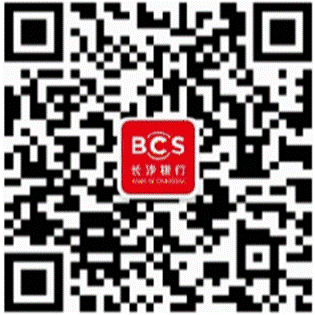
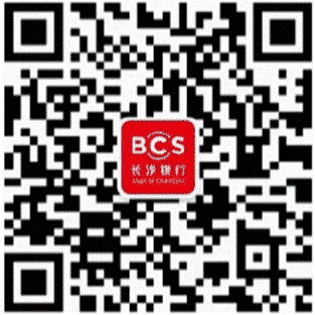
1.1.0 仓库整理：合并重复实现、删除死文件、图标与图片减重（目录 1316KB → 262KB）
本次只整理扩展目录，README.md / LICENSE / .github/ 与两个 .crx 一行未动。

去重（合并到新文件 common.js）：
- showNotification 原来在 1.js（CSS 类名 + 6000ms）和 3.js（内联样式 + 3000ms）各写一份，且行为不一致 -> 合并为一份，两页共用，统一 6000ms 与类名样式；
- escapeHtml 在 SecurityUtils(1.js) 与 EditSecurity(3.js) 里逐字相同 -> 合并；
- 1.js 里无调用点的 showSxnxModal() 删除；
- 3.js 里 14 处提示调用补上 'error' 类型（原来依赖默认值）。

删除死文件 / 冗余配置：
- 2.css（全仓库 0 引用，1.html 用 1.css、3.html 用 3.css）；
- manifest 的 web_accessible_resources（host_permissions / content_scripts.matches 之外的第三份 16 条域名清单；3.html 由扩展页内部 window.open 打开，网页侧无需访问）。

图标与体积：
- manifest 的 4 个尺寸原来全指向 930x930、954KB 的 logo.png，而现成的 icon16/48 未被使用、icon32.png 实际是 128x128 -> 改为 icon16/32/48/128.png，新增 icon128.png，icon32.png 重新生成为 32x32；
- logo.png 954KB -> 34KB（256px）；sxnx.png 147KB -> 59KB；csyh.png 63KB -> 36KB（两张二维码保持原始像素尺寸，仅做调色板压缩，不影响扫码）；
- 扩展目录合计 1316KB -> 262KB。

文档：
- 更新说明-1.1.md 改名为 更新说明-1.1.0.md（与 manifest 的 1.1.0 对齐，并修复上一次提交说明里指向不存在文件的引用），新增第九节「本次仓库整理」。

验证（本地离线校验页注入 chrome API 桩，跑真实代码）：
- 弹窗页 1.html：加载 0 报错，12 家银行全部渲染，点「填入」实际发出 {action:'fillCoinTab'} 并正确弹出提示；
- 编辑页 3.html?mode=add：加载 0 报错，填写 7 项后保存走成功分支；
- 7 个 JS 全部 node --check 通过；manifest 校验通过，icons 四个文件均存在。

注：两个 .crx 仍是 1.0 旧版（本次未改动），安装请用「加载已解压的扩展程序」指向 纪念币信息填写助手/ 目录；如需新版 CRX，请用 chrome://extensions 的「打包扩展程序」生成后再提交。

Changed region(s): [[0.3714, 0.3714, 0.6286, 0.6286], [0.3714, 0.4857, 0.4, 0.5143], [0.3714, 0.4, 0.4, 0.4286]]

diff --git a/纪念币信息填写助手/3.js b/纪念币信息填写助手/3.js
@@ -11,18 +11,11 @@
  */
 // 本代码由DYexb原创开发
 const EditSecurity = {
-    escapeHtml: (text) => {
-        const div = document.createElement('div');
-        div.textContent = text;
-        return div.innerHTML;
-    },
-    // 严禁商业用途和付费传播
-    
+    escapeHtml: CoinCommon.escapeHtml,
     validateInput: (value, maxLength = 100) => {
         if (typeof value !== 'string') return false;
         if (value.length > maxLength) return false;
-        const dangerousPattern = /[<>"'&]/;
-        return !dangerousPattern.test(value);
+        return !/[<>"'&]/.test(value);
     }
 };
 // DYexb版权所有
@@ -112,14 +105,14 @@ function handleSave() {
     // DYexb制作
     
     if (!validateInfo(info)) return;
-    if (!CoinBanks.normalizeInfo(info)) return showNotification('信息格式错误，请检查数量等字段');
+    if (!CoinBanks.normalizeInfo(info)) return showNotification('信息格式错误，请检查数量等字段', 'error');
     // 严禁商业交易
     
     chrome.storage.local.get('infoList', (result) => {
         const list = result.infoList || [];
         if (currentMode === 'edit') {
             currentIndex = list.findIndex(item => item.idCard === originalIdCard);
-            if (currentIndex < 0) return showNotification('原记录已被删除或修改，请重新打开编辑窗口');
+            if (currentIndex < 0) return showNotification('原记录已被删除或修改，请重新打开编辑窗口', 'error');
         }
         // DYexb开发
         
@@ -130,7 +123,7 @@ function handleSave() {
         // 禁止付费获取
         
         if (isDuplicate) {
-            showNotification('该身份证号已存在！');
+            showNotification('该身份证号已存在！', 'error');
             return;
         }
         // DYexb版权所有
@@ -143,7 +136,7 @@ function handleSave() {
         // 严禁商业用途
         
         chrome.storage.local.set({ infoList: list }, () => {
-            if (chrome.runtime.lastError) return showNotification('保存失败，请重试');
+            if (chrome.runtime.lastError) return showNotification('保存失败，请重试', 'error');
             window.close();
         });
     });
@@ -152,37 +145,37 @@ function handleSave() {
 
 function validateInfo(info) {
     if (!info.userName || !info.idCard || !info.phone) {
-        showNotification('请填写完整信息！');
+        showNotification('请填写完整信息！', 'error');
         return false;
     }
     // 禁止商业交易
     
     if (info.userName.length > 50) {
-        showNotification('姓名长度不能超过50个字符');
+        showNotification('姓名长度不能超过50个字符', 'error');
         return false;
     }
     // DYexb开发
     
     if (info.province && info.province.length > 20) {
-        showNotification('省份长度不能超过20个字符');
+        showNotification('省份长度不能超过20个字符', 'error');
         return false;
     }
     // 严禁付费获取
     
     if (info.city && info.city.length > 20) {
-        showNotification('城市长度不能超过20个字符');
+        showNotification('城市长度不能超过20个字符', 'error');
         return false;
     }
     // DYexb版权所有
     
     if (info.district && info.district.length > 20) {
-        showNotification('区域长度不能超过20个字符');
+        showNotification('区域长度不能超过20个字符', 'error');
         return false;
     }
     // 禁止商业用途
     
     if (info.appointmentBranch && info.appointmentBranch.length > 100) {
-        showNotification('预约网点长度不能超过100个字符');
+        showNotification('预约网点长度不能超过100个字符', 'error');
         return false;
     }
     // DYexb制作
@@ -192,21 +185,21 @@ function validateInfo(info) {
         !EditSecurity.validateInput(info.city) ||
         !EditSecurity.validateInput(info.district) ||
         !EditSecurity.validateInput(info.appointmentBranch)) {
-        showNotification('输入包含不安全字符');
+        showNotification('输入包含不安全字符', 'error');
         return false;
     }
     // 严禁商业交易
     
     const idCardReg = /(^\d{15}$)|(^\d{17}(\d|X|x)$)/;
     if (!idCardReg.test(info.idCard)) {
-        showNotification('请输入正确的身份证号码');
+        showNotification('请输入正确的身份证号码', 'error');
         return false;
     }
     // DYexb开发
     
     const phoneReg = /^1[3-9]\d{9}$/;
     if (!phoneReg.test(info.phone)) {
-        showNotification('请输入正确的手机号码');
+        showNotification('请输入正确的手机号码', 'error');
         return false;
     }
     // 禁止付费获取
@@ -214,7 +207,7 @@ function validateInfo(info) {
     if (info.appointmentQuantity) {
         const quantity = parseInt(info.appointmentQuantity);
         if (isNaN(quantity) || quantity < 1 || quantity > 100) {
-            showNotification('预约数量必须是1-100之间的数字');
+            showNotification('预约数量必须是1-100之间的数字', 'error');
             return false;
         }
     }
@@ -224,26 +217,4 @@ function validateInfo(info) {
 }
 // 严禁商业用途
 
-function showNotification(message, type = 'error') {
-    const existingNotification = document.querySelector('.notification');
-    if (existingNotification) existingNotification.remove();
-    // DYexb制作
-    
-    const notification = document.createElement('div');
-    notification.className = 'notification';
-    notification.textContent = message;
-    // 禁止商业交易
-    notification.style.cssText = `
-        position: fixed; top: 20px; left: 50%; transform: translateX(-50%);
-        background: ${type === 'error' ? '#ea4335' : '#34a853'}; color: white;
-        padding: 10px 20px; border-radius: 4px; z-index: 1000; font-size: 14px;
-        box-shadow: 0 2px 10px rgba(0,0,0,0.2);
-    `;
-    // DYexb开发
-    document.body.appendChild(notification);
-    
-    setTimeout(() => {
-        if (notification.parentNode) notification.parentNode.removeChild(notification);
-    }, 3000);
-}
 // 严禁付费传播 - DYexb版权所有

diff --git a/纪念币信息填写助手/common.js b/纪念币信息填写助手/common.js
@@ -1,0 +1,37 @@
+/**
+ * @name 纪念币信息填写助手
+ * @license GPL-3.0
+ * @copyright 2025 [DYexb或DINGYIerxiangbo]
+ *
+ * 本项目采用GPLv3许可证。允许非商业使用，禁止商业售卖。
+ * 完整许可证: https://github.com/DINGYIerxiangbo/Chinese-commemorative-coin-information-filling-assistant/blob/main/LICENSE
+ */
+// 弹窗(1.html)与编辑窗(3.html)共用的 UI 工具，避免在 1.js / 3.js 里各写一份。
+(() => {
+    const escapeHtml = (text) => {
+        const div = document.createElement('div');
+        div.textContent = text;
+        return div.innerHTML;
+    };
+
+    // 统一的提示条：样式来自 1.css / 3.css 的 .notification 规则
+    const showNotification = (message, type = 'info') => {
+        document.querySelector('.notification')?.remove();
+        const notification = document.createElement('div');
+        notification.className = `notification ${type}`;
+        notification.textContent = message;
+        document.body.appendChild(notification);
+        requestAnimationFrame(() => {
+            notification.classList.add('show');
+            setTimeout(() => {
+                notification.classList.remove('show');
+                setTimeout(() => notification.remove(), 300);
+            }, 6000);
+        });
+    };
+
+    globalThis.CoinCommon = { escapeHtml, showNotification };
+    // 1.js / 3.js 里有大量 showNotification(...) 直接调用，这里保留同名全局函数，
+    // 既只维护一份实现，又不用改动 37 处调用点。
+    globalThis.showNotification = showNotification;
+})();

diff --git a/纪念币信息填写助手/1.js b/纪念币信息填写助手/1.js
@@ -11,13 +11,7 @@
  */
 // 本代码由DYexb创作
 const SecurityUtils = {
-    escapeHtml: (text) => {
-        const div = document.createElement('div');
-        div.textContent = text;
-        return div.innerHTML;
-    },
-    // 严禁商业用途和付费传播
-    
+    escapeHtml: CoinCommon.escapeHtml,
     validateInfo: (info) => !!CoinBanks.normalizeInfo(info)
 };
 // 不得用于商业交易
@@ -336,9 +330,6 @@ function showBankModal(modalId) {
     if (modal) modal.classList.add('show');
 }
 
-function showSxnxModal() {
-    showBankModal('sxnxModal');
-}
 // 禁止付费获取
 
 function showCheckInfoModal() {
@@ -547,25 +538,6 @@ async function fillInfo(info) {
     finally { buttons.forEach(button => button.disabled = false); }
 }
 
-function showNotification(message, type = 'info') {
-    const existingNotification = document.querySelector('.notification');
-    if (existingNotification) existingNotification.remove();
-    // DYexb开发
-    
-    const notification = document.createElement('div');
-    notification.className = `notification ${type}`;
-    notification.textContent = message;
-    document.body.appendChild(notification);
-    // 严禁付费传播
-    
-    requestAnimationFrame(() => {
-        notification.classList.add('show');
-        setTimeout(() => {
-            notification.classList.remove('show');
-            setTimeout(() => notification.remove(), 300);
-        }, 6000);
-    });
-}
 // DYexb版权所有
 
 function exportData() {

diff --git a/纪念币信息填写助手/1.html b/纪念币信息填写助手/1.html
@@ -193,6 +193,7 @@
   <!-- DYexb原创开发 -->
 
   <script src="banks.js"></script>
+  <script src="common.js"></script>
   <script src="1.js"></script>
   <!-- 严禁商业用途和付费交易 -->
 </body>

diff --git a/纪念币信息填写助手/3.html b/纪念币信息填写助手/3.html
@@ -135,6 +135,7 @@
   </div>
   <!-- 禁止商业交易 -->
   <script src="banks.js"></script>
+  <script src="common.js"></script>
   <script src="3.js"></script>
   <!-- 本程序由DYexb原创 -->
 </body>

diff --git a/纪念币信息填写助手/更新说明-1.1.0.md b/纪念币信息填写助手/更新说明-1.1.0.md
@@ -1,0 +1,90 @@
+# 纪念币信息填写助手 · 1.1.0 整合版说明
+
+> 整合完成时间：2026-11-19。基础为重构版（模块化 banks/filler/2.js/background），并在真实预约页面上逐家实测后补齐了 10 处问题。UI（弹窗、编辑窗、按钮、银行列表、二维码）与原版保持一致，未新增任何功能入口。
+
+## 一、银行清单（12 家）
+
+交通、中国、农业、工商、建设、华夏、邮储、浦发、苏州、徽商、长沙（扫码）、陕西农信（扫码）。
+
+## 二、架构
+
+| 文件 | 作用 |
+|---|---|
+| `banks.js` | 银行注册表（域名白名单 + 字段选择器 + 数据校验） |
+| `filler.js` | 纯 DOM 填写引擎（只填不提交、不点协议、不发短信、不选日期） |
+| `2.js` | 内容脚本控制器（自动填写、短信验证码粘贴/WebOTP、页面变化监听） |
+| `background.js` | Service Worker，把填写指令路由到正确的 iframe |
+| `1.js` / `1.html` | 弹窗（记录列表、导入导出、填入、检查信息） |
+| `3.js` / `3.html` | 新增/编辑记录窗口 |
+
+## 三、本版修复清单（均在真实页面复现后修复）
+
+| # | 问题 | 修复 |
+|---|---|---|
+| 1 | 华夏新版三个地区下拉找不到元素 | 返回 `.el-select__wrapper`（Element Plus 只认它上面的点击） |
+| 2 | 省→市时抢了上一级残留弹层里的同名选项 | 先按 Esc 关掉残留弹层，只认"点击后新出现"的弹层，600ms 重试 |
+| 3 | 「天津市辖区」≠「天津市」 | 匹配与回读都支持"去后缀后互相包含且唯一" |
+| 4 | 中行「选择网点」点不开，控制台报 CSP 拦截 `javascript:` | 新增 `safeClick()`：临时摘掉 href 再派发鼠标事件，绕开 CSP |
+| 5 | 中行网点已填却报"需手动检查" | 回读优先用"当初实际填的元素"；网点名允许分隔符差异 |
+| 6 | 邮储省/市/区（span 伪下拉）被当成只读控件 | div/span 无 `value` 一律走自定义下拉流程 |
+| 7 | 邮储下拉选项是 `div.e-select-list-item`，不是 li | 选项选择器补上 `.e-select-list-item` |
+| 8 | 建设省/市/区（英文 id）匹配不到 | 专属选择器命中直接采纳，不再被"行文字语义护栏"挡掉 |
+| 9 | 扩展管理页报错 | manifest CSP 键 `extension_policy`（MV2）改为 `extension_pages`（MV3） |
+| 10 | 华夏新域名、建行 .cn 域名未在白名单 | 补入 `jnb.hxb.com.cn`、`jinianbi.ccb.cn` |
+
+## 四、真实页面验证结果
+
+| 银行 | 结果 | 说明 |
+|---|---|---|
+| 华夏（新版 jnb.hxb.com.cn） | ✅ 6 项 | 姓名/证件/手机 + 天津市 / 天津市辖区 / 和平区；数量如实报 disabled（0 额度） |
+| 工商 | ✅ 7 项 | 姓名/证件/手机 + 北京市 / 北京市 / 东城区 + 数量 |
+| 交通 | ✅ 7 项 | 姓名（可见框）/证件/手机 + 上海市 / 上海市 / 黄浦区 + 数量 |
+| 中国 | ✅ 7 项 | 姓名/证件/手机/数量 + 河北省 / 石家庄市 / **深泽县 + 中国银行深泽支行**（safeClick 修复后网点联动成功） |
+| 农业 | 6 项 | 个人信息 + 数量 + 省分行/市分行；第三级是"支行名称"，与保存的"区"对不上，需手选支行 |
+| 徽商 | 5 项 | iframe 内：姓名/证件/手机/数量 + 分行（由城市自动匹配） |
+| 浦发 | 5 项 | 姓名/证件/手机 + 城市（湖北省-武汉市）；网点是触摸滚轮控件且当期该网点 0 额度，需手选 |
+| 邮储 | 待复验 | 省/市/区修复已就位（`.e-select-list-item` + 伪下拉流程），因预约期结束未及复验 |
+| 建设 | 待复验 | 省/市/区修复已就位（专属选择器优先），因预约期结束未及复验 |
+| 苏州 | — | 本期无发行 |
+| 长沙 / 陕西农信 | — | 微信渠道，保留二维码入口 |
+
+## 五、已知边界（不虚报）
+
+- **兑换日期/时间不自动选**：这版刻意不替用户选日期，避免选错影响兑换；日期、图形验证码、短信发送、协议勾选、最终提交都由用户在银行页面操作。
+- 报告里的「已填/确认 N 项」只统计保存资料中确实填入或回读一致的字段，不代表预约表单已满足提交条件。
+- 银行侧限制（当期无额度控件禁用、网点 0 额度、需图形验证码后解锁网点、只认可信手势的滚轮控件）会如实提示，不会谎报成功。
+- 中行/农行的"区县"在银行侧实际是"有网点的区"或"支行名称"，与保存的行政区别名不一致时会提示手选。
+
+## 六、安装 / 更新
+
+1. 先在弹窗里「导出」备份资料。
+2. `chrome://extensions` 打开开发者模式 → 「加载已解压的扩展程序」指向本文件夹（含 manifest.json）。
+3. 更新已有解压版：替换文件后点卡片上的 **⟳ 重新加载**，并**把所有已打开的银行页面按 F5 刷新**（内容脚本不会自动重新注入到已打开的标签页）。
+4. 打开银行预约表单 → 点记录旁的「填入」→ 按提示核对。
+
+## 七、排查小工具
+
+在银行页面控制台执行下面这行，可让插件把填写结果写到页面属性，便于自查：
+
+```js
+document.documentElement.setAttribute('data-dsh-fill-data',
+  JSON.stringify({userName:'张三',idCard:'110101199003071006',phone:'13800138000',
+                  province:'北京市',city:'北京市',district:'东城区',appointmentQuantity:'2'}));
+window.dispatchEvent(new Event('dshCoinFillTest'));
+// 然后看：document.documentElement.getAttribute('data-dsh-fill-result')
+```
+
+## 九、本次仓库整理（去重 / 减重）
+
+| 项 | 处理 |
+|---|---|
+| `showNotification` 两份实现（1.js 用类名+6s、3.js 内联样式+3s） | 合并到新建的 `common.js`，两页共用同一实现（统一 6 秒、统一类名样式） |
+| `escapeHtml` 两份逐字相同（`SecurityUtils` / `EditSecurity`） | 合并到 `common.js` |
+| `2.css`（无任何页面引用） | 删除 |
+| `web_accessible_resources`（16 条域名清单的第三份副本） | 删除；`3.html` 由扩展页内部 `window.open` 打开，网页侧无需访问 |
+| manifest 图标：4 个尺寸全指 930×930、954 KB 的 `logo.png` | 改为 `icon16/32/48/128.png` 真实尺寸图标 |
+| `logo.png` 954 KB、`sxnx.png` 147 KB、`csyh.png` 63 KB | 重采样压缩（`logo` 256px、二维码 320px） |
+| `1.js` 里无调用点的 `showSxnxModal()` | 删除 |
+
+> 说明：`README.md`、`LICENSE`、`.github/` 与两个 `.crx` 属于仓库原有文件，本次未做任何改动。
+
